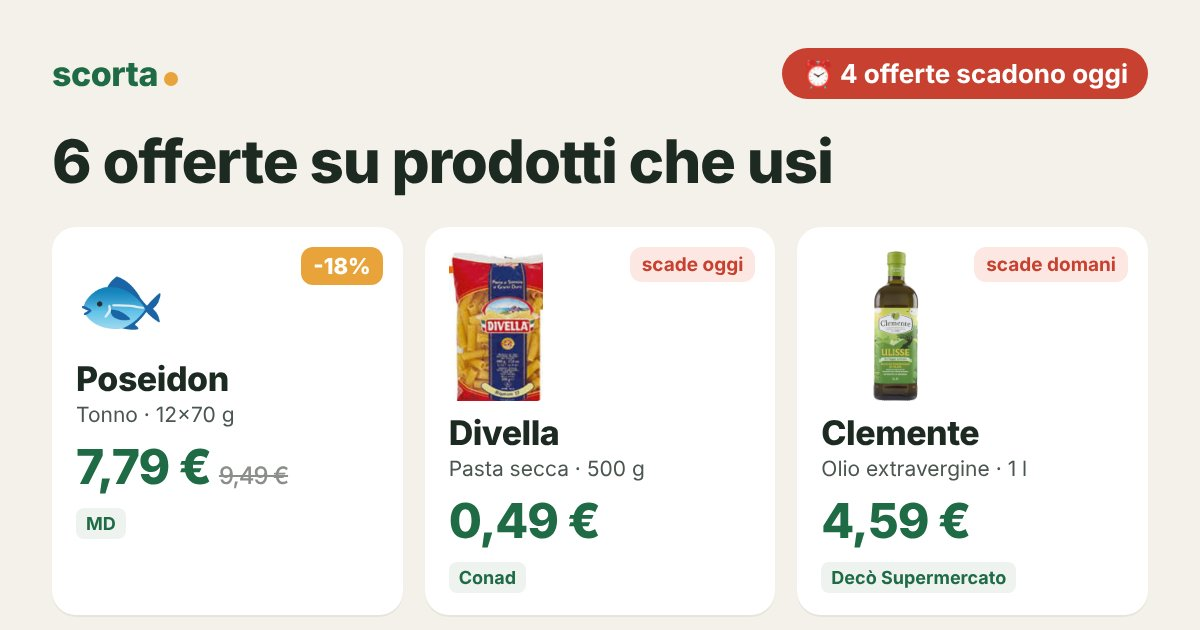
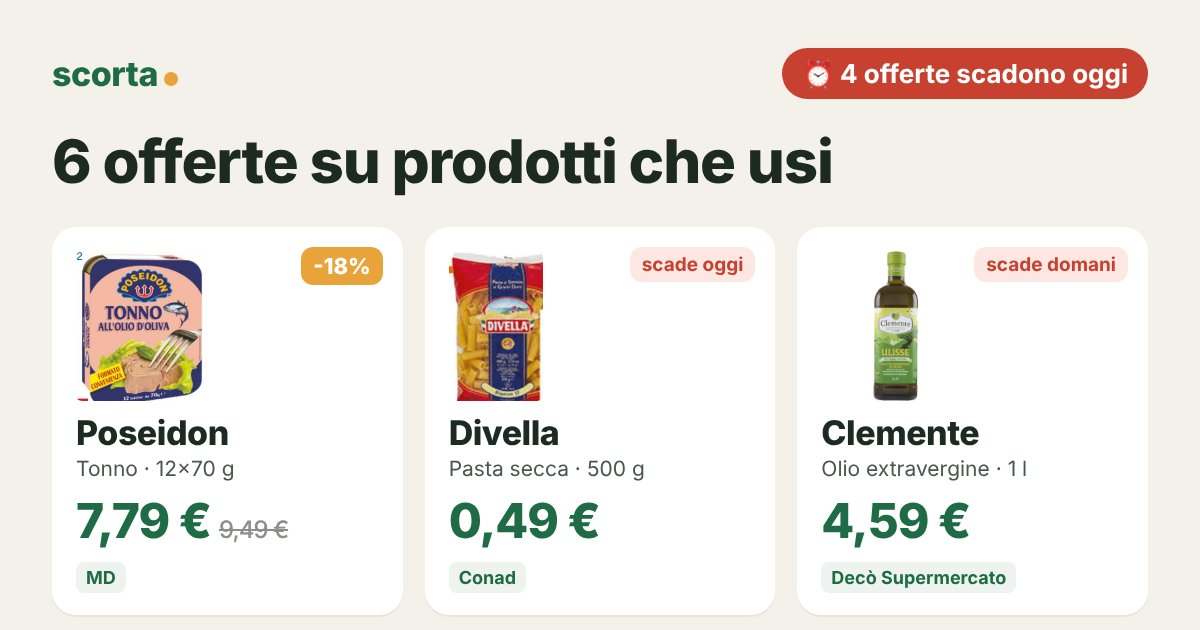
Pagine offerte 2026-10-31
Claude-Session: https://claude.ai/code/session_012BnByD7nnfoHswjF7TKs2L

Changed region(s): [[0.0617, 0.3921, 0.2467, 0.8746], [0.0617, 0.9048, 0.1233, 0.9349]]

diff --git a/o/a754df28/index.html b/o/a754df28/index.html
@@ -6,4 +6,4 @@
 <style>body{margin:0;font-family:-apple-system,system-ui,sans-serif;background:#F4F1EA;color:#1d2a22}main{max-width:560px;margin:auto;padding:16px}img{width:100%;border-radius:14px}
 ul{list-style:none;padding:0}li{display:flex;gap:10px;align-items:center;background:#fff;border-radius:12px;padding:10px 12px;margin:8px 0}.ic{font-size:26px}.th{width:44px;height:44px;object-fit:contain;background:#fff}li div:nth-child(2){flex:1}small{color:#6b746e}.pr{text-align:right;white-space:nowrap}s{color:#8a8f8b;font-size:13px}
 .btn{display:block;text-align:center;background:#1f6b45;color:#fff;font-weight:700;font-size:18px;padding:16px;border-radius:14px;text-decoration:none;margin:18px 0}.map{display:block;color:#1f6b45;margin:6px 0;text-decoration:none}</style></head>
-<body><main><img src="card.jpg" alt=""><a class="btn" href="https://tally.so/r/OQQV7k?f=F013&amp;a=A077,A078,A079,A080,A081,A082">✅ Segna cosa hai comprato</a><ul><li><img class=th src=../../img/conad_V010_p17_divella.jpg><div><b>Divella pasta di semola formati normali 500 g</b><br><small>Conad · scade oggi</small></div><div class="pr"><b>0,49 €</b></div></li><li><span class=ic>🍪</span><div><b>Conad crema alle nocciole 400 g</b><br><small>Conad · fino al 8/11</small></div><div class="pr"><b>1,89 €</b></div></li><li><span class=ic>🐟</span><div><b>Poseidon tonno all&#x27;olio d&#x27;oliva 12x70 g</b><br><small>MD · scade oggi</small></div><div class="pr"><s>9,49 €</s> <b>7,79 €</b></div></li><li><img class=th src=../../img/deco_74M07885P371_301.jpg><div><b>Clemente olio extravergine Ulisse 1 l</b><br><small>Decò Supermercato · scade domani</small></div><div class="pr"><b>4,59 €</b></div></li><li><img class=th src=../../img/deco_74M07885P306_301.jpg><div><b>Vernel ammorbidente concentrato vari tipi 78 lavaggi</b><br><small>Decò Supermercato · scade domani</small></div><div class="pr"><b>2,89 €</b></div></li><li><img class=th src=../../img/deco_74M07885P441_301.jpg><div><b>Le Chat paté per gatti vitello o orata e pesce bianco 400 g</b><br><small>Decò Supermercato · fino al 23/11</small></div><div class="pr"><b>0,79 €</b></div></li></ul><a class="map" href="https://www.google.com/maps/search/?api=1&query=Conad%20Via%20Aniello%20Falcone%20380%20Napoli">📍 Conad · Via Aniello Falcone 380, Napoli</a><a class="map" href="https://www.google.com/maps/search/?api=1&query=MD%20Via%20Giulio%20Cesare%2C%2050%2C%20Fuorigrotta%20Napoli">📍 MD · Via Giulio Cesare, 50, Fuorigrotta, Napoli</a><a class="map" href="https://www.google.com/maps/search/?api=1&query=Dec%C3%B2%20Supermercato%20Via%20Consalvo%2C%2093%20Napoli">📍 Decò Supermercato · Via Consalvo, 93, Napoli</a><p><small>Prezzi e scadenze dai volantini delle insegne. Rispondi STOP su WhatsApp per non ricevere più avvisi.</small></p></main></body></html>
+<body><main><img src="card.jpg" alt=""><a class="btn" href="https://tally.so/r/OQQV7k?f=F013&amp;a=A077,A078,A079,A080,A081,A082">✅ Segna cosa hai comprato</a><ul><li><img class=th src=../../img/conad_V010_p17_divella.jpg><div><b>Divella pasta di semola formati normali 500 g</b><br><small>Conad · scade oggi</small></div><div class="pr"><b>0,49 €</b></div></li><li><span class=ic>🍪</span><div><b>Conad crema alle nocciole 400 g</b><br><small>Conad · fino al 8/11</small></div><div class="pr"><b>1,89 €</b></div></li><li><img class=th src=../../img/md_V006_p1_poseidon.jpg><div><b>Poseidon tonno all&#x27;olio d&#x27;oliva 12x70 g</b><br><small>MD · scade oggi</small></div><div class="pr"><s>9,49 €</s> <b>7,79 €</b></div></li><li><img class=th src=../../img/deco_74M07885P371_301.jpg><div><b>Clemente olio extravergine Ulisse 1 l</b><br><small>Decò Supermercato · scade domani</small></div><div class="pr"><b>4,59 €</b></div></li><li><img class=th src=../../img/deco_74M07885P306_301.jpg><div><b>Vernel ammorbidente concentrato vari tipi 78 lavaggi</b><br><small>Decò Supermercato · scade domani</small></div><div class="pr"><b>2,89 €</b></div></li><li><img class=th src=../../img/deco_74M07885P441_301.jpg><div><b>Le Chat paté per gatti vitello o orata e pesce bianco 400 g</b><br><small>Decò Supermercato · fino al 23/11</small></div><div class="pr"><b>0,79 €</b></div></li></ul><a class="map" href="https://www.google.com/maps/search/?api=1&query=Conad%20Via%20Aniello%20Falcone%20380%20Napoli">📍 Conad · Via Aniello Falcone 380, Napoli</a><a class="map" href="https://www.google.com/maps/search/?api=1&query=MD%20Via%20Giulio%20Cesare%2C%2050%2C%20Fuorigrotta%20Napoli">📍 MD · Via Giulio Cesare, 50, Fuorigrotta, Napoli</a><a class="map" href="https://www.google.com/maps/search/?api=1&query=Dec%C3%B2%20Supermercato%20Via%20Consalvo%2C%2093%20Napoli">📍 Decò Supermercato · Via Consalvo, 93, Napoli</a><p><small>Prezzi e scadenze dai volantini delle insegne. Rispondi STOP su WhatsApp per non ricevere più avvisi.</small></p></main></body></html>
